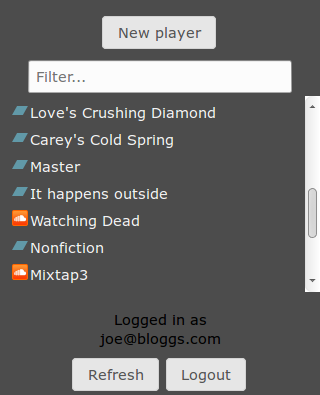
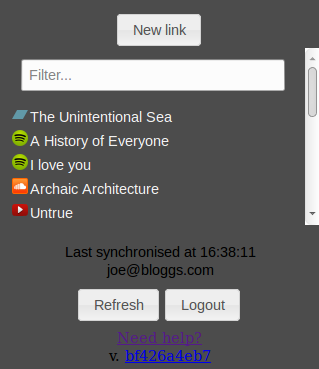
Player->Link throughout the application.

Changed region(s): [[0.0282, 0.0298, 1.0, 1.0]]

diff --git a/index.html b/index.html
@@ -33,9 +33,9 @@
     <div>
     <div id="sidebar" class="sidebar">
       <div id="controllers" class="controllers">
-        <button id="new-player" class="ui-widget">New player</button>
+        <button id="new-player" class="ui-widget">New link</button>
         <!-- This is only visible when you click the New Player button or an Edit button -->
-        <div id="playerForm" title="Add a new player" style="display: none;">
+        <div id="playerForm" title="Add a new link" style="display: none;">
           <form id="formData">
             <fieldset style="border: 0">
               <input type="text" name="address" id="address" value="" class="text ui-widget-content ui-corner-all" placeholder=" Address" size="50"/><br/>
@@ -110,10 +110,10 @@
           <li>
             <div class="introduction" style="text-align:center;">
               <p>
-                Use the New Player button to add links to your collection.
+                Use the New Link button to add links to your collection.
               </p>
   
-              <img src="images/newplayer.png"/>
+              <img src="images/newlink.png"/>
            
              <p>It's a simple two-step process to add a link:</p>
   
@@ -123,7 +123,7 @@
                   <li>Use a name that you'll remember</li>
                 </ol>
               </p>
-              <img width=400px src="images/newplayer2.png"/>
+              <img width=400px src="images/newlink_dialog.png"/>
             
               <br/><br/>
             </div>

diff --git a/scripts/webplayer.js b/scripts/webplayer.js
@@ -85,11 +85,11 @@ function initialiseNewPlayerForm()
     position: { my: "center", at: "center", of: window },
     resizable: false,
     buttons: {
-      "Add player": function() {
+      "Add link": function() {
           addNewPlayer($("#name").val(), $("#address").val()); 
           $( this ).dialog( "close" );
       },
-      "Edit player": function() {
+      "Edit link": function() {
           editPlayer($("#name").val(), $("#address").val(), $("#id").val()); 
           readPlayers();
           $( this ).dialog( "close" );
@@ -106,13 +106,13 @@ function initialiseNewPlayerForm()
          $("#address").val("");
          $("#name").val("");
          $("#id").val("");
-         $('.ui-button:contains(Add player)').show()
-         $('.ui-button:contains(Edit player)').hide()
+         $('.ui-button:contains(Add link)').show()
+         $('.ui-button:contains(Edit link)').hide()
        }
        else
        {
-         $('.ui-button:contains(Edit player)').show()
-         $('.ui-button:contains(Add player)').hide()
+         $('.ui-button:contains(Edit link)').show()
+         $('.ui-button:contains(Add link)').hide()
          $("#address").val(localStorage.getItem("webplayer.players."+id+".url"));
          $("#name").val(localStorage.getItem("webplayer.players."+id+".name"));
          $("#id").val(id);
